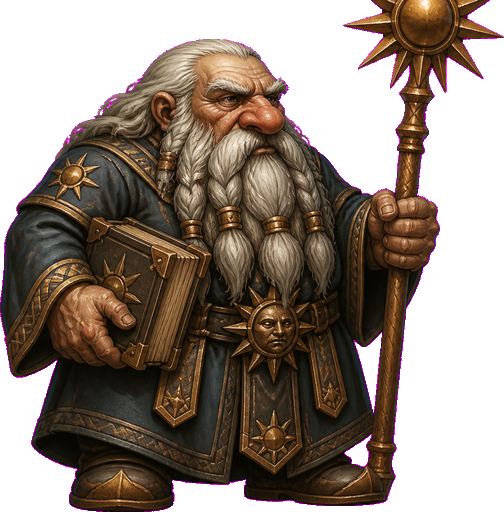
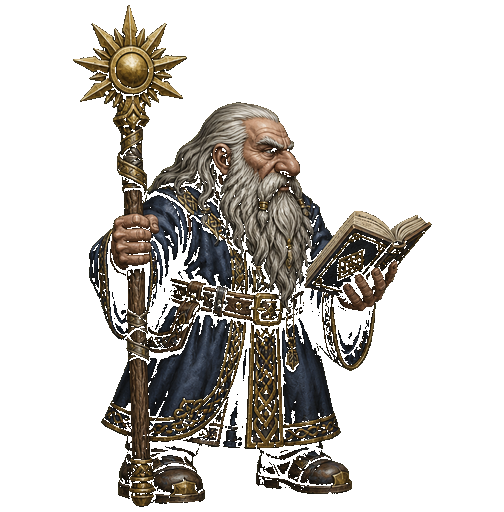
Bind Limner-signed title-law Talpor idle (ASSET_VER 85). (#174)
Bare-headed grey, sun-staff and book. Completes the five idles. Walk/atk unchanged.

diff --git a/src/ui/Ch1RubbleLoad.test.js b/src/ui/Ch1RubbleLoad.test.js
@@ -45,7 +45,7 @@ assert(!/else if\(okTex\)\{/.test(html),
   'generated TEX diamonds are not a first-frame floor/wall fallback');
 assert(/tile_floor_mine\.png\?v=60/.test(html) && /tile_wall_worked\.png\?v=60/.test(html),
   'mine floor and worked wall are preloaded before first present');
-assert(/ASSET_VER='84'/.test(html), 'asset cache-bust matches punched living-Macar sheets');
+assert(/ASSET_VER='85'/.test(html), 'asset cache-bust matches punched living-Macar sheets');
 assert(/function scatterBurialRubble\(/.test(html) && /fallen:1/.test(html) && /k:'dust'/.test(html),
   'cave-in entry scatters extra timber, stone, and dust around the burial');
 assert(/function drawFallenBeam\(/.test(html) && /function drawFloorDust\(/.test(html),

diff --git a/src/combat/ElvenkindBoots.test.js b/src/combat/ElvenkindBoots.test.js
@@ -23,7 +23,7 @@ function extractFn(name){
   return m[0];
 }
 
-assert(/ASSET_VER='84'/.test(html), 'ASSET_VER is unchanged');
+assert(/ASSET_VER='85'/.test(html), 'ASSET_VER is unchanged');
 assert(/function wornMoveMul\(/.test(html) && /function moveStep\(/.test(html),
   'wornMoveMul and moveStep exist (extract of move())');
 assert(/function wearingElvenkind\(/.test(html), 'shared wearingElvenkind helper exists');

diff --git a/src/combat/UseMagicItem.test.js b/src/combat/UseMagicItem.test.js
@@ -48,7 +48,7 @@ assert(/nocked|stays packed/.test(useFn), 'plus-shot ammo use is still nock/read
 assert(/EquipmentSlots\.isEquippable\(it\)/.test(useFn),
   'wearable misc (Displacement) dons through isEquippable before the generic buff+heal');
 
-assert(/ASSET_VER='84'/.test(html), 'ASSET_VER is unchanged');
+assert(/ASSET_VER='85'/.test(html), 'ASSET_VER is unchanged');
 
 const ctx={
   G:{equipped:{}},

diff --git a/index.html b/index.html
@@ -348,7 +348,7 @@ const FONT_QUOTE='"Cormorant Garamond",Palatino,Georgia,serif';
 
 /* ---------------------------- painted sprites (Baldur's Gate isometric) ---------------------------- */
 const SPR={};
-const ASSET_VER='84';
+const ASSET_VER='85';
 let SPLASH_STATE='loading';
 function assetUrl(src){
   const u=src+(src.indexOf('?')>=0?'&':'?')+'v='+ASSET_VER;

diff --git a/src/combat/LeftoverMagic.test.js b/src/combat/LeftoverMagic.test.js
@@ -26,7 +26,7 @@ function extractFn(name){
   return m[0];
 }
 
-assert(/ASSET_VER='84'/.test(html), 'ASSET_VER is unchanged');
+assert(/ASSET_VER='85'/.test(html), 'ASSET_VER is unchanged');
 assert(!/id:'vorpal'|id:'bag_of_holding'|id:'arrow_of_slaying'|id:'javelin_of_lightning'/.test(html),
   'no invented leftover-magic item ids');
 
